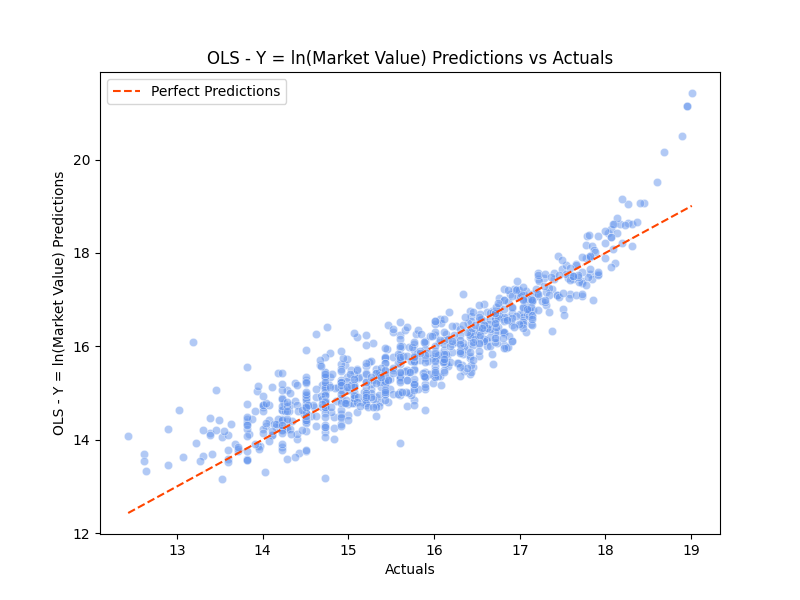
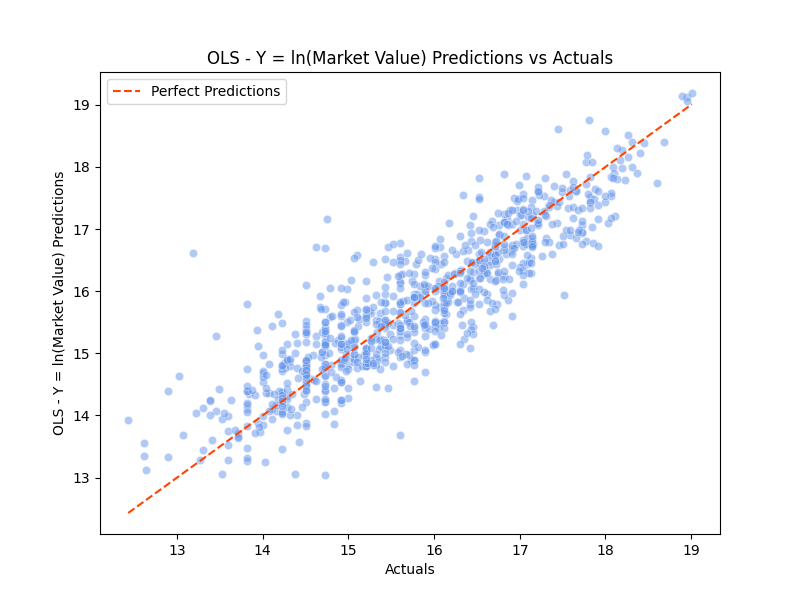
ran OLS models on only features from RF model. also stored outputs and made some XL visuals for deck.

diff --git a/predictive_model_fitting.py b/predictive_model_fitting.py
@@ -58,6 +58,16 @@ def fit_and_run_OLS(df, target_var, clean_y_name):
     visuals into the proper GitHub directories.
     '''
 
+    # Drop the Y column that was NOT selected to avoid prediction bias:
+    if target_var == 'market_value_in_eur':
+        if 'log_mkt_val' in df.columns:
+            df = df.drop(columns='log_mkt_val')
+    elif target_var == 'log_mkt_val':
+        if 'market_value_in_eur' in df.columns:
+            df = df.drop(columns='market_value_in_eur')
+    else:
+        print('\n***INVALID TARGET VARIABLE***\n')
+
     # Call the test-train split function:
     X_train, X_test, y_train, y_test = split_data(df, target_var, test_size=.2, seed_value=42)
 
@@ -154,8 +164,13 @@ def fit_and_run_LASSO(df, target_var, clean_y_name):
 # Function that fits a random forest regressor on a dataframe:
 def fit_and_run_RANDOMFOREST(df, target_var, clean_y_name):
 
-    # Drop the log_mkt_val column:
-    df = df.drop(columns='log_mkt_val')
+    # Drop the Y column that was NOT selected:
+    if target_var == 'market_value_in_eur':
+        df = df.drop(columns='log_mkt_val')
+    elif target_var == 'log_mkt_val':
+        df = df.drop(columns='market_value_in_eur')
+    else:
+        print('\n***INVALID TARGET VARIABLE***\n')
     
     # Conduct the test-train split with the standardized dataframe:
     X_train, X_test, y_train, y_test = split_data(df, target_var, test_size=.2, seed_value=42)
@@ -166,7 +181,7 @@ def fit_and_run_RANDOMFOREST(df, target_var, clean_y_name):
                     'min_samples_split' : [2, 5, 9] #, 10]
                     }
     
-    # Initialize the RF model with no parameters:
+    # Initialize the RF model with the tuned parameters; CV process is commented out for reference:
     rf_model = RandomForestRegressor(n_estimators=100, min_samples_split=2, max_depth=None, random_state=42) # n_estimators=100, min_samples_split=5, max_depth=None
 
     # Initialize GridSearchCV:
@@ -218,6 +233,8 @@ def fit_and_run_RANDOMFOREST(df, target_var, clean_y_name):
     # Predicted vs. actuals:
     pred_vs_actuals_plot(y_test, pred_rf, f'Tuned Random Forest - Y = {clean_y_name}')
 
+    # Output the important features dataframe for use later in OLS model building:
+    return feature_importance_df
 
 
 def main():
@@ -240,8 +257,8 @@ def main():
     # ------------ Start of OLS model fitting with both targets ------------
 
     # Iterate OLS model fitting over different outcomes:
-    # for outcome, clean_outcome in zip(['market_value_in_eur', 'log_mkt_val'], ['Market Value (euros)', 'ln(Market Value)']):
-    #     fit_and_run_OLS(master_df, outcome, clean_outcome)
+    for outcome, clean_outcome in zip(['market_value_in_eur', 'log_mkt_val'], ['Market Value (euros)', 'ln(Market Value)']):
+        fit_and_run_OLS(master_df, outcome, clean_outcome)
 
     # ------------ Start of Lasso regression model fitting ------------
 
@@ -250,13 +267,31 @@ def main():
     #     fit_and_run_LASSO(master_df, outcome, clean_outcome)
     #     print(f'Lasso Model with Y = {clean_outcome} - Important Features: \n{fit_and_run_LASSO(master_df, outcome, clean_outcome)}')
 
-    # Test new lasso fit function with parameter tuning:
-    # fit_and_run_LASSO(master_df, 'market_value_in_eur', 'Market Value (euros)')
-    # print(f"Lasso Model with Y = Market Value (euros) - Important Features: \n{fit_and_run_LASSO(master_df, 'market_value_in_eur', 'Market Value (euros)')}")
-
     # ------------ Start of Random Forest model fitting ------------
-    fit_and_run_RANDOMFOREST(master_df, 'market_value_in_eur', 'Market Value (euros)')
+    # for outcome, clean_outcome in zip(['market_value_in_eur', 'log_mkt_val'], ['Market Value (euros)', 'ln(Market Value)']):
+    #     fit_and_run_RANDOMFOREST(master_df, outcome, clean_outcome)
 
+    # ------------ Start of OLS modeling with Random Forests' important features ------------
+    
+    # Slice master dataframe to only the RF features and the two outcome variables:
+    # important_feature_list = fit_and_run_RANDOMFOREST(master_df, 'market_value_in_eur', 'Market Value (euros)')['Feature'].to_list()[0:25] # Top 25 most important features only
+    
+    # Hard coded the RF features list to avoid running the algorithm every time:
+    important_feature_list = ['Big Team', 'age', 'npxG+xAG', 'onxG', 'xG+/-', 'SCA', 'Premier League', 'Att 3rd.1', 'Sh', 'GCA', 'Dis', '+/-', 'onG', 'PPM', 'SoT/90', 'Att Pen', 'Cmp%.3', 'PassLive', 'npxG+xAG.1', 'Sh/90', 'G+A', 'xAG', 'TotDist.1', '+/-90', '1/3']
+
+    # # Add the outcomes to the list:
+    important_feature_list.append('market_value_in_eur')
+    important_feature_list.append('log_mkt_val')
+
+    # Slice the main dataframe:
+    rf_feature_sliced_df = master_df[important_feature_list] 
+
+    # Run an OLS model using the sliced dataframe:
+    for outcome, clean_outcome in zip(['market_value_in_eur', 'log_mkt_val'], ['MV (euros) - RF Features Only', 'ln(Market Value) - RF Features Only']):
+        fit_and_run_OLS(rf_feature_sliced_df, outcome, clean_outcome)
+
+    # ------------ Start of OLS modeling with Random Forests' important features ------------
+    
 
 if __name__ == "__main__":
     main()
